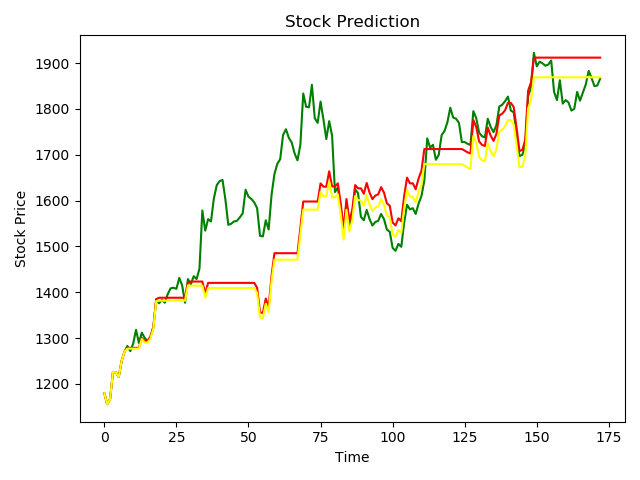
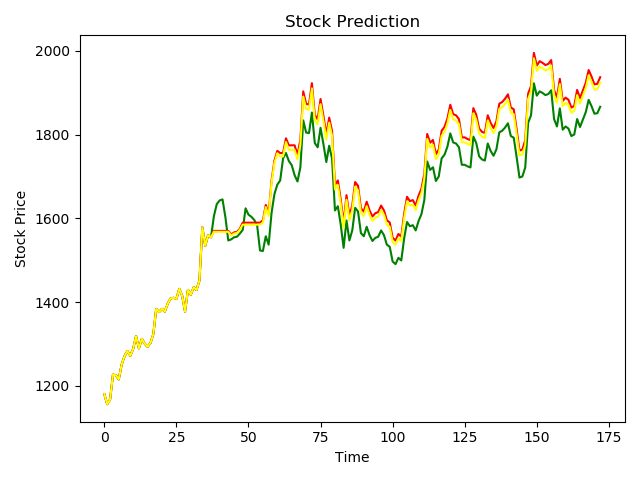
add index predict

diff --git a/index_predict.py b/index_predict.py
@@ -1,0 +1,72 @@
+import numpy as np
+import tushare as ts
+import codecs
+import time
+from ml_model import MLModel
+import stock_predict
+
+# 导入金融数据
+with codecs.open('token.txt', 'rb', 'utf-8') as f:
+    token = f.read()
+ts.set_token(token)
+pro = ts.pro_api()
+
+stock = '000905.SH'  # 399300.SZ   000905.SH
+divide_date = '20190101'
+
+quotes = pro.index_daily(ts_code=stock, start_date='20090101')
+
+print("开始 :", stock, ", 时间 :", time.ctime())
+quotes = quotes.sort_values(by=['trade_date'], ascending=True)
+train_quotes = quotes[quotes['trade_date'] < divide_date].sort_values(by=['trade_date'], ascending=True)
+
+time_steps = 20  # 每次训练的数据长度
+
+total_days = len(quotes)
+train_days = len(train_quotes)
+
+# 数据
+close_total = np.array(quotes['close'])
+change_total = np.array(quotes['pct_chg'])
+turnover_vol_total = np.array(quotes['vol'])
+turnover_value_total = np.array(quotes['amount'])
+mean_total = (np.array(quotes['high']) + np.array(quotes['low'])) / 2
+
+x_total, y_total = stock_predict.generate_x_and_y(time_steps, change_total,
+                                                  change_total, close_total, turnover_vol_total, turnover_value_total)
+
+x_train = x_total[0:train_days - time_steps]
+y_train = y_total[0:train_days - time_steps]
+x_test = x_total[train_days - time_steps:]
+y_test = y_total[train_days - time_steps:]
+y_test = np.argmax(y_test, axis=1) - 2
+
+# 构建模型
+model = MLModel(input_shape=(x_train.shape[1], x_train.shape[2]), stock_name=stock)
+
+# 训练模型
+model.train_model(x_train=x_train, y_train=y_train, epoch=5, batch_size=32)
+
+# 预测结果
+y_predict = model.predict(x_test)
+y_predict = np.argmax(y_predict, axis=1) - 2
+print("y_predict: ", y_predict)
+
+correct_num = 0
+rough_correct_num = 0
+for i in range(y_test.shape[0]):
+    if y_predict[i] == y_test[i]:
+        correct_num += 1
+    if (y_predict[i] > 0 and y_test[i] > 0) or (y_predict[i] < 0 and y_test[i] < 0) or (
+            y_predict[i] == 0 and y_test[i] == 0):
+        rough_correct_num += 1
+print(stock, "准确的大涨、大跌、震荡、小跌、大跌的预测准确率：", correct_num / y_test.shape[0])
+print(stock, "涨跌平的预测准确率：", rough_correct_num / y_test.shape[0])
+
+stock_predict.stock_operation(stock_name=stock,
+                              change=change_total[train_days:],
+                              close=close_total[train_days - 1:],
+                              mean=mean_total[train_days:],
+                              predict_state=y_predict)
+
+print("结束 :", stock, ", =====================================时间 :", time.ctime())

diff --git a/stock_predict.py b/stock_predict.py
@@ -14,7 +14,7 @@ def stock_predict(stock, quotes, divide_date):
         quotes = quotes.sort_values(by=['tradeDate'], ascending=True)
         train_quotes = quotes[quotes['tradeDate'] < divide_date].sort_values(by=['tradeDate'], ascending=True)
 
-        time_steps = 240  # 每次训练的数据长度，一年大概240个交易日
+        time_steps = 20  # 每次训练的数据长度
 
         total_days = len(quotes) - 1
         train_days = len(train_quotes) - 1  # 减去计算不到涨跌幅的第一天
@@ -72,8 +72,8 @@ def stock_predict(stock, quotes, divide_date):
 
 def generate_x_and_y(time_steps, change, *xs):
     # ( ,-big_num)大跌， (-big_num,-small_num)小跌， (-small_num,small_num)平， (small_num,big_num)小涨， (big_num, )大涨
-    small_num = 0.5
-    big_num = 1.5
+    small_num = 0.4
+    big_num = 1.2
 
     data_num = 0  # 参数的个数
 
@@ -97,7 +97,7 @@ def generate_x_and_y(time_steps, change, *xs):
     # 然后对该trainData进行转换transform，从而实现数据的标准化、归一化等等。
     # """
     # x_scaled = scaler.fit_transform(X=x_unscaled)
-    x_scaled = scale(X=x_unscaled, axis=0)
+    x_scaled = scale(X=x_unscaled, axis=0)  # 归一化
 
     x = []
     y = []
@@ -134,6 +134,13 @@ def stock_operation(stock_name, change, close, mean, predict_state):
     :param predict_state: 预测的每一天的状态
     :return:
     """
+    if change.shape[0] != mean.shape[0]:
+        print("change 和 mean 长度不一致")
+        return
+    if close.shape[0] - 1 != change.shape[0]:
+        print("close - 1 和 change 长度不一致")
+        return
+
     base_money = close[0]  # 每天的金额，以第一天的前一天的收盘价为基础金额
     # close = close[1:]
     base_money_fee = base_money  # 每天的金额，含手续费计算
@@ -230,7 +237,7 @@ if __name__ == '__main__':
 
     pool = multiprocessing.Pool(processes=2)
 
-    for stock in all_quotes[1:2]:
+    for stock in all_quotes[3:4]:
         quotes = quotes_dataframe[quotes_dataframe['secID'] == stock]
         pool.apply_async(stock_predict, (stock, quotes, divide_date))
 
